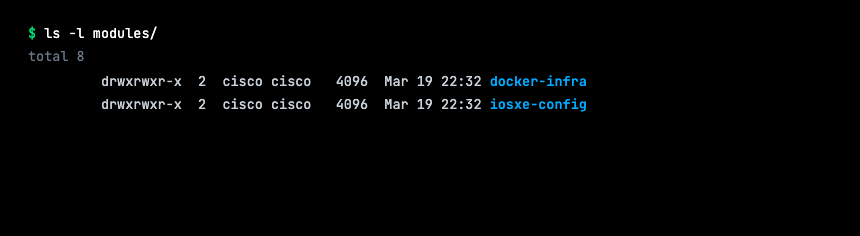
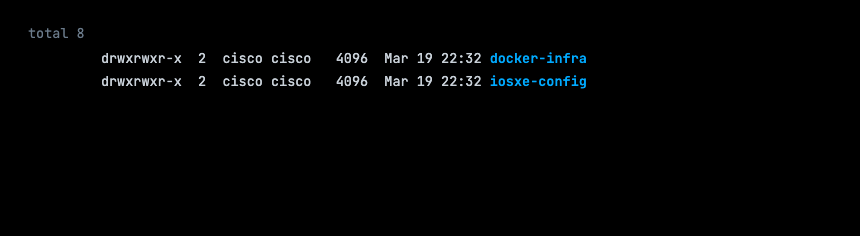
fix task5-ls-modules-output: remove prompt, restore cyan dir colors
Remove prompt/command line from image, restore missing CSS classes
for flex layout and directory name color. Output-only image now
matches the tight crop style of the ls -la image above it.

diff --git a/images/task5-ls-modules-output.html b/images/task5-ls-modules-output.html
@@ -24,8 +24,7 @@
     color: #c8d0d8;
   }
 
-  .prompt { color: #00e676; }
-  .cmd    { color: #ffffff; }
+  .total  { color: #6a7a8a; margin-bottom: 2px; }
   .row { display: flex; white-space: pre; }
   .inode  { color: #6a7a8a; width: 9ch; flex-shrink: 0; }
   .perms  { color: #c8d0d8; width: 11ch; flex-shrink: 0; }
@@ -35,12 +34,10 @@
   .size   { color: #c8d0d8; width: 7ch; flex-shrink: 0; text-align: right; margin-right: 1ch; }
   .date   { color: #c8d0d8; width: 13ch; flex-shrink: 0; }
   .name-dir { color: #00aaff; font-weight: 600; }
-  .total  { color: #6a7a8a; margin-bottom: 2px; }
 </style>
 </head>
 <body>
 <div class="terminal">
-  <div><span class="prompt">$ </span><span class="cmd">ls -l modules/</span></div>
   <div class="total">total 8</div>
 
   <div class="row">
